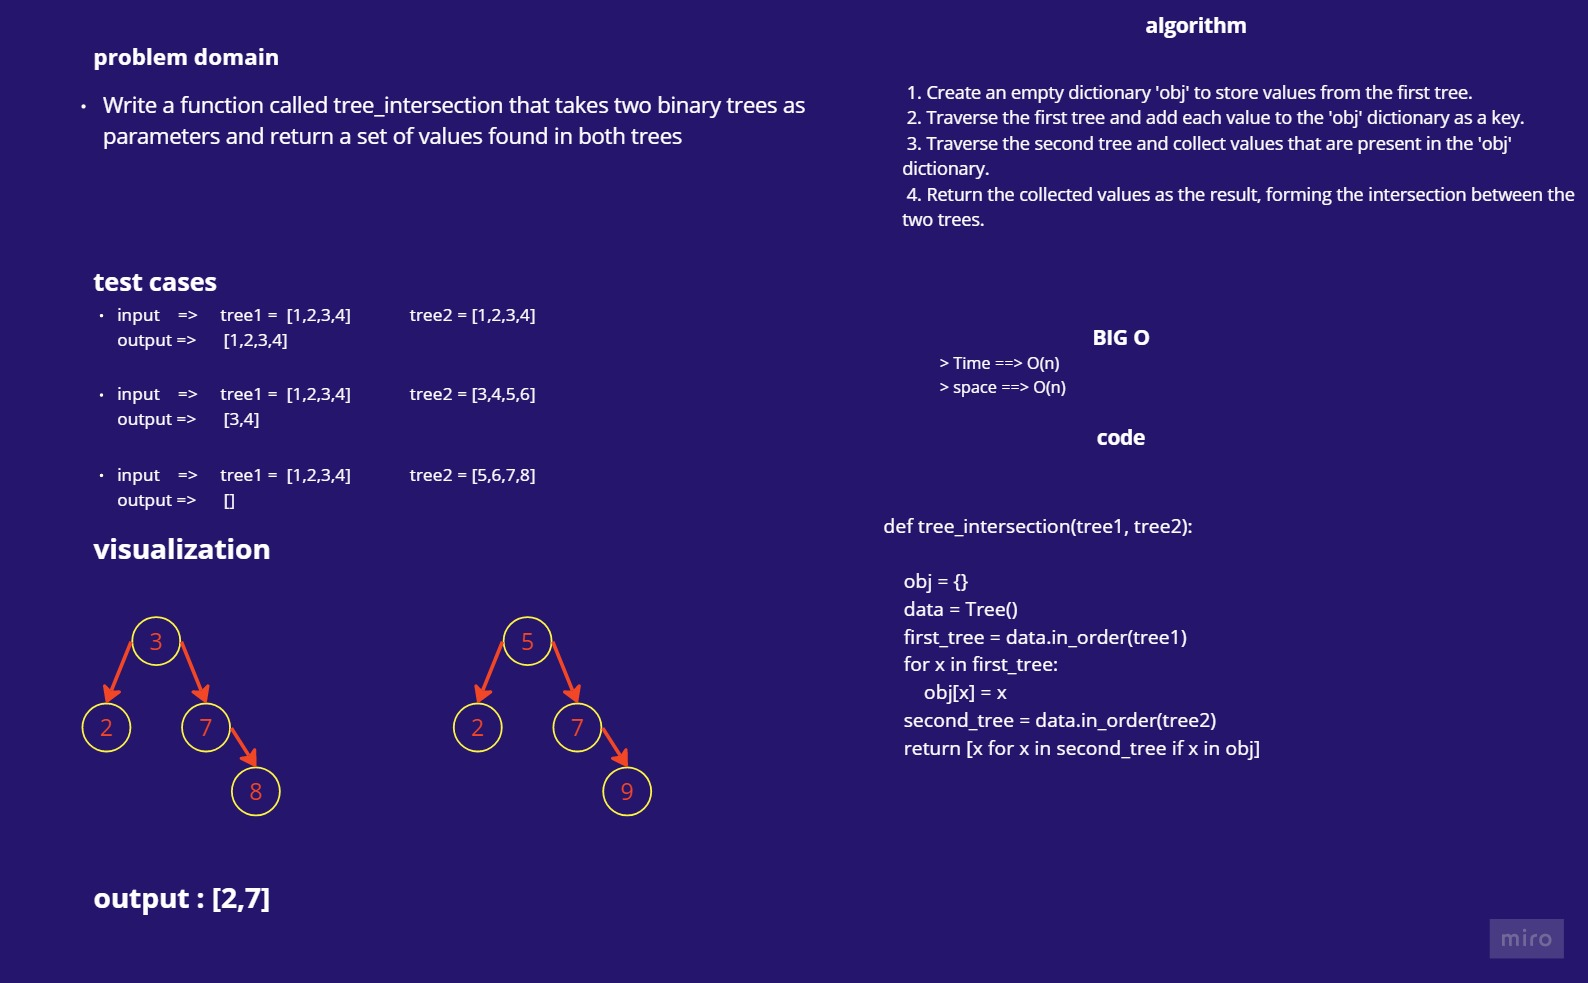
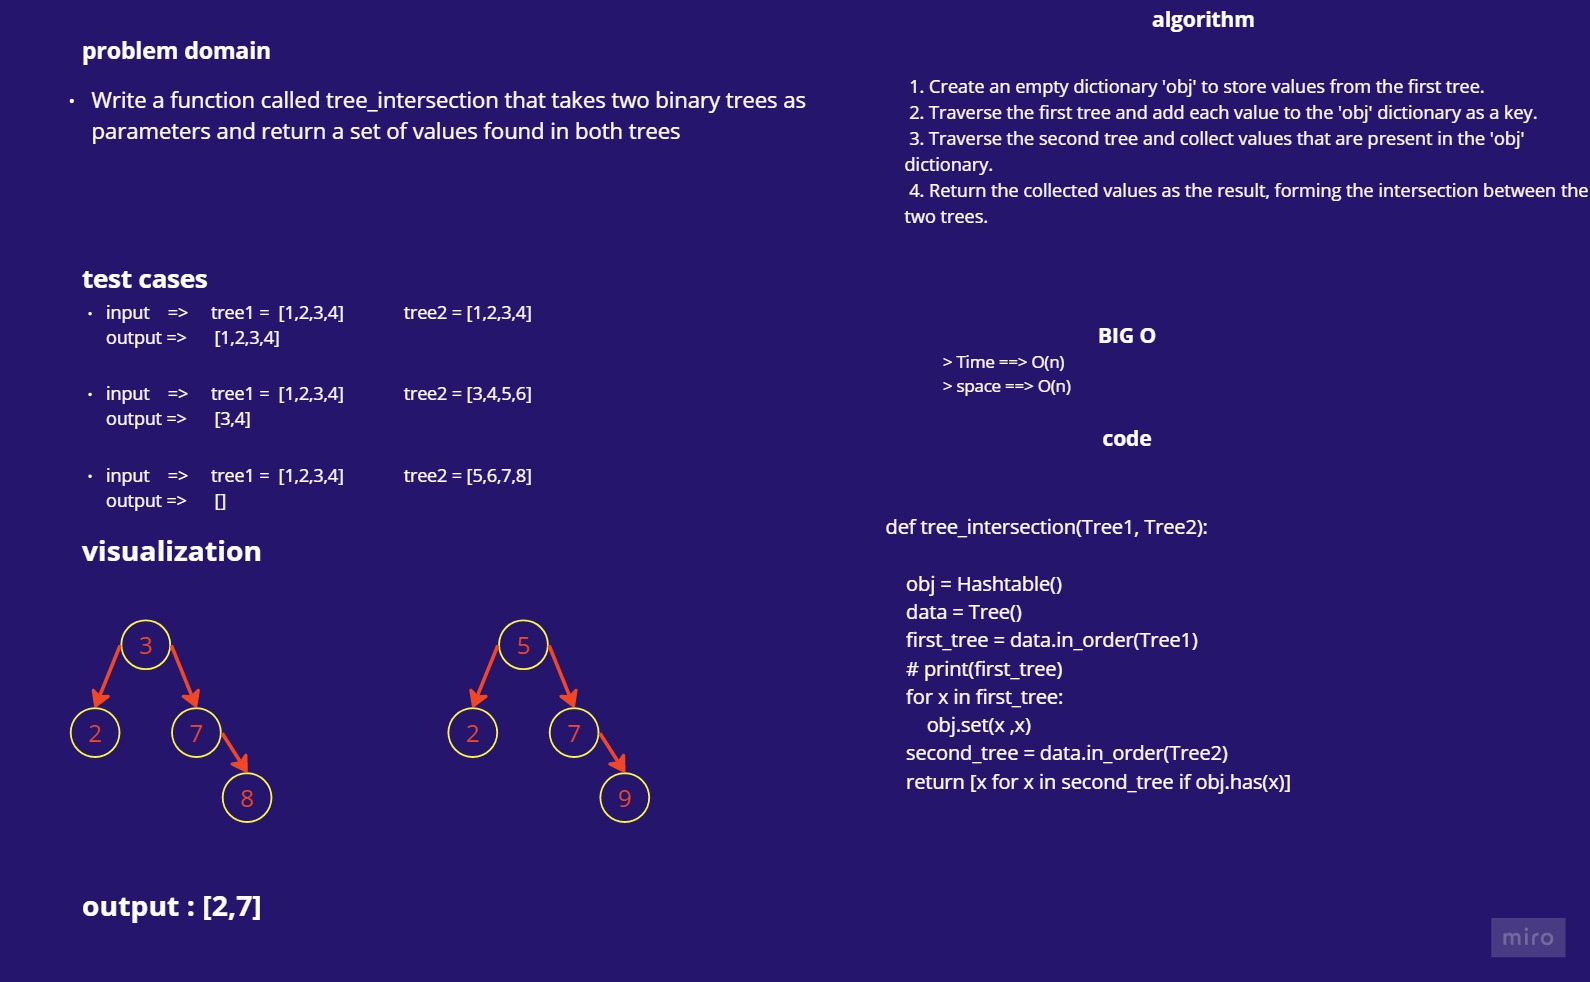
resolved CC32

diff --git a/tree_intersection/tree_intersection.py b/tree_intersection/tree_intersection.py
@@ -1,20 +1,21 @@
-from Trees.Trees import Tree
+from Hash_table.hash_table import Hashtable
+from Trees.Trees import Tree,Node
 
-def tree_intersection(tree1, tree2):
+def tree_intersection(Tree1, Tree2):
     """
-    Returns a list of intersection values between two binary trees.
+    takes two binary trees and returns the intersection values between them.
 
-    Args:
-        tree1: The first binary tree.
-        tree2: The second binary tree.
+    arguments: 
+        two binary trees
 
-    Returns:
-        A list of intersection values found in both trees.
+    returns: 
+        list of intersection values
     """
-    obj = {}
+    obj = Hashtable()
     data = Tree()
-    first_tree = data.in_order(tree1)
+    first_tree = data.in_order(Tree1)
+    # print(first_tree)
     for x in first_tree:
-        obj[x] = x
-    second_tree = data.in_order(tree2)
-    return [x for x in second_tree if x in obj]
+        obj.set(x ,x)
+    second_tree = data.in_order(Tree2)
+    return [x for x in second_tree if obj.has(x)]

diff --git a/Hash_table/test_hashtable.py b/Hash_table/test_hashtable.py
@@ -1,5 +1,5 @@
 import pytest
-from Hashtable.hashtable import Hashtable
+from Hash_table.hash_table import Hashtable
 
 def test_set_get():
     ht = Hashtable()

diff --git a/tree_intersection/README.md b/tree_intersection/README.md
@@ -14,26 +14,26 @@ space complixity : O(n)
 
 # white-board
 
-## Merge Sort
+## tree intersection 
 ![tree_intersection ](./tree_intersection.jpg)
 
 # Solution 
 
-    def tree_intersection(tree1, tree2):
+    def tree_intersection(Tree1, Tree2):
         """
-        Returns a list of intersection values between two binary trees.
+        takes two binary trees and returns the intersection values between them.
 
-        Args:
-            tree1: The first binary tree.
-            tree2: The second binary tree.
+        arguments: 
+            two binary trees
 
-        Returns:
-            A list of intersection values found in both trees.
+        returns: 
+            list of intersection values
         """
-        obj = {}
+        obj = Hashtable()
         data = Tree()
-        first_tree = data.in_order(tree1)
+        first_tree = data.in_order(Tree1)
+        # print(first_tree)
         for x in first_tree:
-            obj[x] = x
-        second_tree = data.in_order(tree2)
-        return [x for x in second_tree if x in obj]
+            obj.set(x ,x)
+        second_tree = data.in_order(Tree2)
+        return [x for x in second_tree if obj.has(x)]
